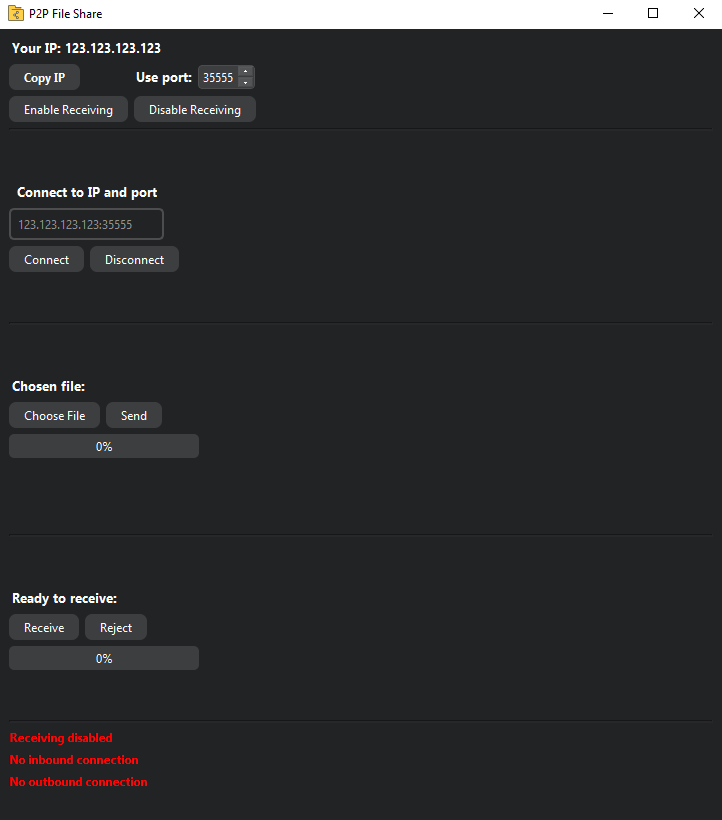
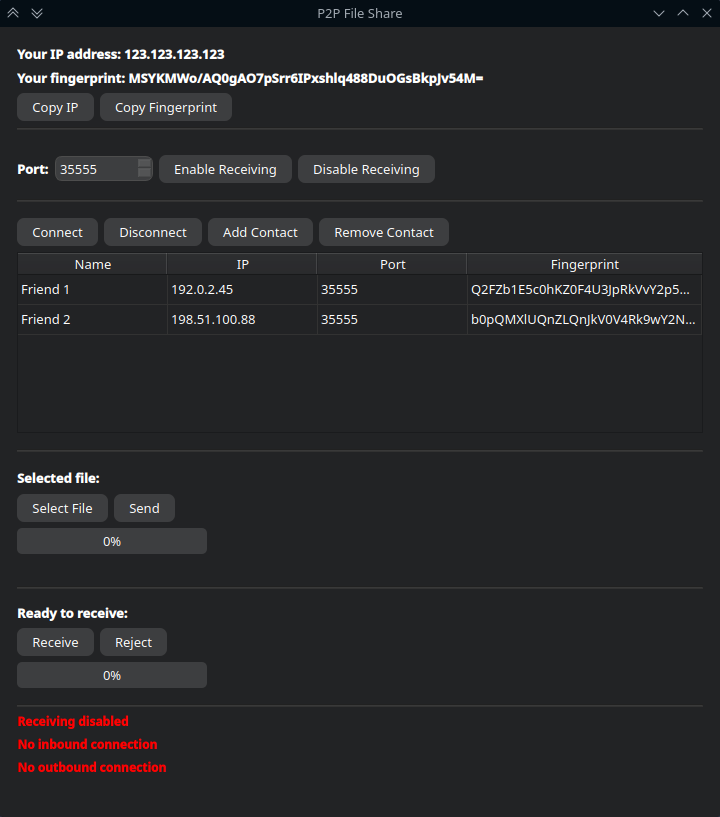
README update

diff --git a/src/gui_layout.py b/src/gui_layout.py
@@ -675,6 +675,7 @@ class Ui_MainWindow(object):
         self.outboundConnectionLabel.setSizePolicy(sizePolicy)
         font = QtGui.QFont()
         font.setFamily("Noto Sans")
+        font.setPointSize(9)
         font.setBold(True)
         self.outboundConnectionLabel.setFont(font)
         self.outboundConnectionLabel.setStyleSheet("color: red;")

diff --git a/README.md b/README.md
@@ -3,19 +3,19 @@ send files without a public IP address.**
 
 ---
 
-- All files are sent encrypted over a TLS connection. Note that certificate verification is currently not implemented.
+- All files are sent encrypted over a TLS connection. Note that certificate verification for inbound connections is not implemented.
 
 - Ports need to be opened on your network to allow file receiving.
   If UPnP is enabled on your network, the program will automatically open and close the ports of your choosing.
   Otherwise, you will have to manually open ports if you want to receive files.
   No ports need to be opened in order to send files.
 
-- To receive files, click the "Enable Receiving" button. Then, when a file is sent to you, you can choose to either receive or reject it.
+- To receive files, click the "Enable Receiving" button. When a file is sent to you, you can choose to either receive or reject it.
   Received files are placed in your "Downloads" folder.
 
-- To connect to someone, use the format "IP address:Port" (e.g., 123.123.123.123:35555).
-  Then you can select a file and click the "Send" button to send it.
-  You will be notified if the recipient rejects the file, or if it has been downloaded.
+- To connect to someone, first add them as a contact, then select them and press "Connect".
+  You can then select a file and click the "Send" button to send it.
+  You will be notified if the recipient rejects the file, or receives it.
 
 - To send folders, package them first (e.g., ZIP), then send them as a regular file.
 
